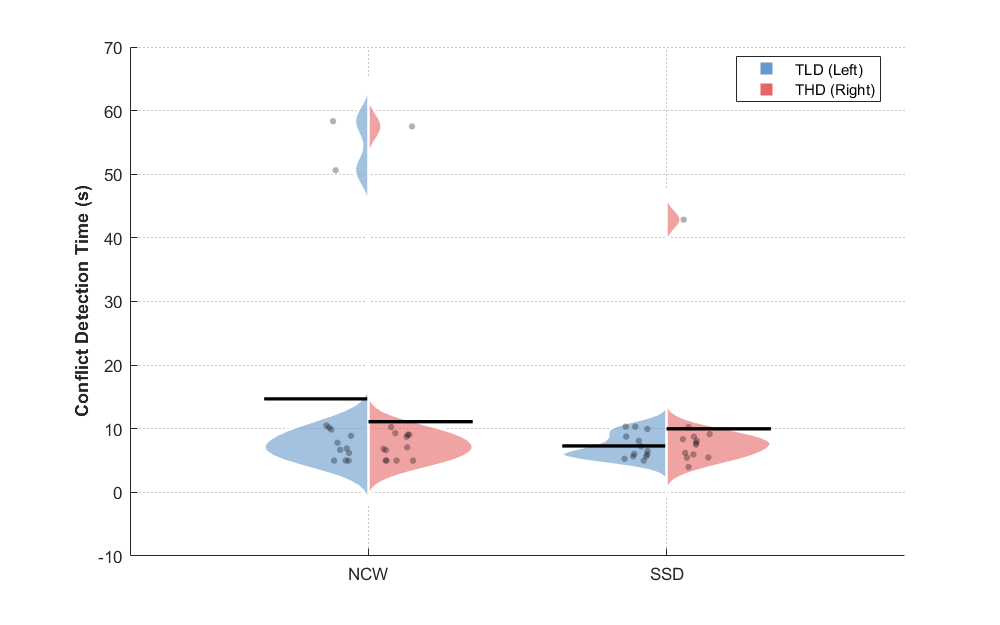
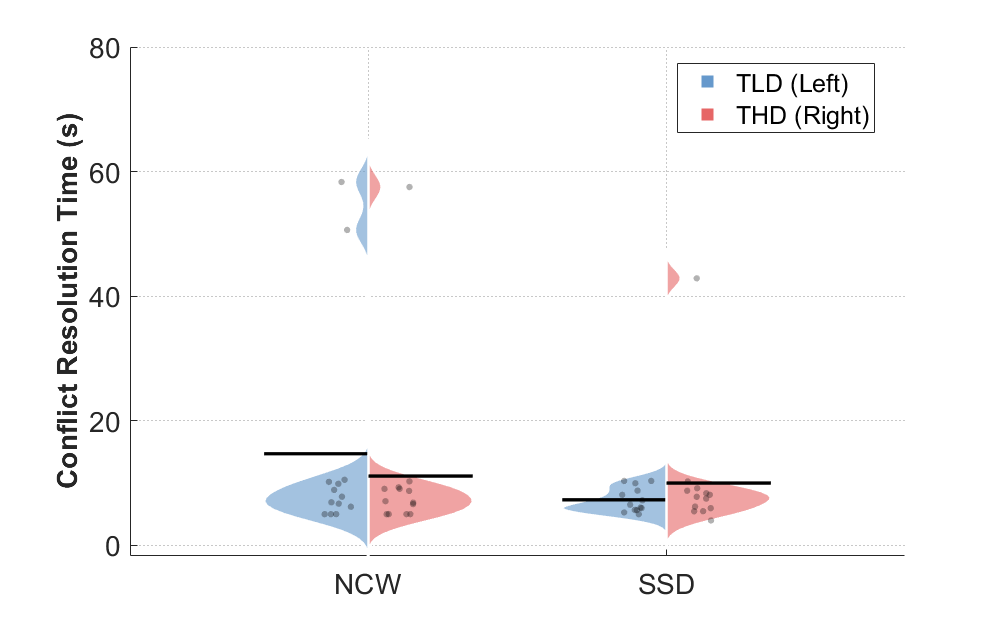
Plots Matlab

diff --git a/Plots/Python_files/LateAssumeTransferRatio.m b/Plots/Python_files/LateAssumeTransferRatio.m
@@ -1,0 +1,101 @@
+% Define the two files you uploaded
+filenames = {'LateAssumeRatio.csv', 'LateTransferRatio.csv'};
+
+% 1. Create ONE Figure to hold all 4 split violins
+figure('Name', 'Combined Ratios', 'Color', 'w', 'Position', [100, 100, 900, 500]);
+hold on;
+
+% X-axis positions for the 4 split violins
+% 1 and 2 for "Late Assume", 4 and 5 for "Late Transfer" (creates a visual gap at 3)
+base_x_positions = [1, 2, 4, 5]; 
+
+% Colors (RGB Triplets)
+color_TLD = [0.4, 0.6, 0.8];  % Soft Blue
+color_THD = [0.9, 0.4, 0.4];  % Soft Red
+
+max_violin_width = 0.35; % Controls how wide the violins can get
+
+% 2. Loop through both files and plot them on the same axis
+for f_idx = 1:2
+    % Read the data
+    data = readtable(filenames{f_idx});
+    
+    % Extract the data into the 4 cases based on 'Display'
+    ncw_mask = strcmp(data.Display, 'NCW');
+    ssd_mask = strcmp(data.Display, 'SSD');
+    
+    NCW_TLD = data.TLD(ncw_mask);
+    NCW_THD = data.THD(ncw_mask);
+    SSD_TLD = data.TLD(ssd_mask);
+    SSD_THD = data.THD(ssd_mask);
+    
+    % Grouping: {NCW_TLD, NCW_THD, SSD_TLD, SSD_THD}
+    dataList = {NCW_TLD, NCW_THD, SSD_TLD, SSD_THD};
+    
+    % Determine exact X positions for this specific file's data
+    if f_idx == 1
+        x_pos = [base_x_positions(1), base_x_positions(1), base_x_positions(2), base_x_positions(2)];
+    else
+        x_pos = [base_x_positions(3), base_x_positions(3), base_x_positions(4), base_x_positions(4)];
+    end
+    
+    sides = [-1, 1, -1, 1]; % -1 (left) for TLD, 1 (right) for THD
+    colors = {color_TLD, color_THD, color_TLD, color_THD};
+    
+    % 3. Calculate density and draw shapes for the current file
+    for i = 1:4
+        y = dataList{i};
+        
+        % Check if all values are identical (e.g. all zeros) to prevent ksdensity errors
+        if range(y) == 0
+            % Create a manual tiny spread if all values are exactly the same
+            xi = linspace(y(1) - 0.05, y(1) + 0.05, 100);
+            f = normpdf(xi, y(1), 0.01);
+        else
+            % Calculate normal kernel density estimation
+            [f, xi] = ksdensity(y);
+        end
+        
+        % Normalize the density to the maximum width desired
+        f = max_violin_width * (f / max(f));
+        
+        % Create the X and Y coordinates for the polygon (patch)
+        if sides(i) == -1 % Left side (TLD)
+            x_patch = [x_pos(i) - f, fliplr(x_pos(i) * ones(1, length(f)))];
+        else              % Right side (THD)
+            x_patch = [x_pos(i) + f, fliplr(x_pos(i) * ones(1, length(f)))];
+        end
+        y_patch = [xi, fliplr(xi)];
+        
+        % Draw the half-violin
+        patch(x_patch, y_patch, colors{i}, 'FaceAlpha', 0.6, 'EdgeColor', 'w', 'LineWidth', 1.5);
+        
+        % Add semi-transparent scatter points for the actual raw data
+        jitter = sides(i) * (rand(size(y)) * 0.1 + 0.05);
+        scatter(x_pos(i) + jitter, y, 15, 'k', 'filled', 'MarkerFaceAlpha', 0.3);
+        
+        % Add horizontal line for the Mean of each group
+        plot([x_pos(i), x_pos(i) + sides(i)*max_violin_width], ...
+             [mean(y), mean(y)], 'k-', 'LineWidth', 2);
+    end
+end
+
+% 4. Formatting and Aesthetics for the combined chart
+set(gca, 'FontSize', 17);
+xticks(base_x_positions);
+xticklabels({'    Assume NCW', '    Assume SSD', '    Transfer NCW', '    Transfer SSD'});
+xlim([0.2, 5.8]);
+ylabel('Ratio', 'FontWeight', 'bold', 'FontSize', 17);
+%title('Late Assume and Late Transfer Ratios (TLD vs THD)', 'FontWeight', 'bold');
+grid on;
+set(gca, 'GridLineStyle', ':', 'GridAlpha', 0.5);
+
+% Draw a subtle vertical line to visually separate the Assume and Transfer groups
+plot([3, 3], ylim, 'k--', 'Color', [0.7 0.7 0.7]);
+
+% 5. Custom Legend using dummy plots
+h1 = plot(NaN, NaN, 's', 'MarkerFaceColor', color_TLD, 'MarkerEdgeColor', 'none', 'MarkerSize', 10);
+h2 = plot(NaN, NaN, 's', 'MarkerFaceColor', color_THD, 'MarkerEdgeColor', 'none', 'MarkerSize', 10);
+legend([h1, h2], {'TLD (Left)', 'THD (Right)'}, 'Location', 'northeast', 'FontSize', 15);
+
+hold off;

diff --git a/Plots/Python_files/ConflictDetectionTime.m b/Plots/Python_files/ConflictDetectionTime.m
@@ -65,10 +65,11 @@ for i = 1:4
 end
 
 % 6. Formatting and Aesthetics
+set(gca, 'FontSize', 17);
 xticks([1, 2]);
 xticklabels({'NCW', 'SSD'});
 xlim([0.2, 2.8]);
-ylabel('Conflict Detection Time (s)', 'FontWeight', 'bold');
+ylabel('Conflict Detection Time (s)', 'FontWeight', 'bold', 'FontSize', 17);
 %title('Conflict Detection Time by Display (TLD vs THD)', 'FontWeight', 'bold');
 grid on;
 set(gca, 'GridLineStyle', ':', 'GridAlpha', 0.5);
@@ -77,6 +78,6 @@ set(gca, 'GridLineStyle', ':', 'GridAlpha', 0.5);
 % Since we used patches in a loop, the cleanest way to do a legend is with dummy plots
 h1 = plot(NaN, NaN, 's', 'MarkerFaceColor', color_TLD, 'MarkerEdgeColor', 'none', 'MarkerSize', 10);
 h2 = plot(NaN, NaN, 's', 'MarkerFaceColor', color_THD, 'MarkerEdgeColor', 'none', 'MarkerSize', 10);
-legend([h1, h2], {'TLD (Left)', 'THD (Right)'}, 'Location', 'best');
+legend([h1, h2], {'TLD (Left)', 'THD (Right)'}, 'Location', 'best', 'FontSize', 15);
 
 hold off;